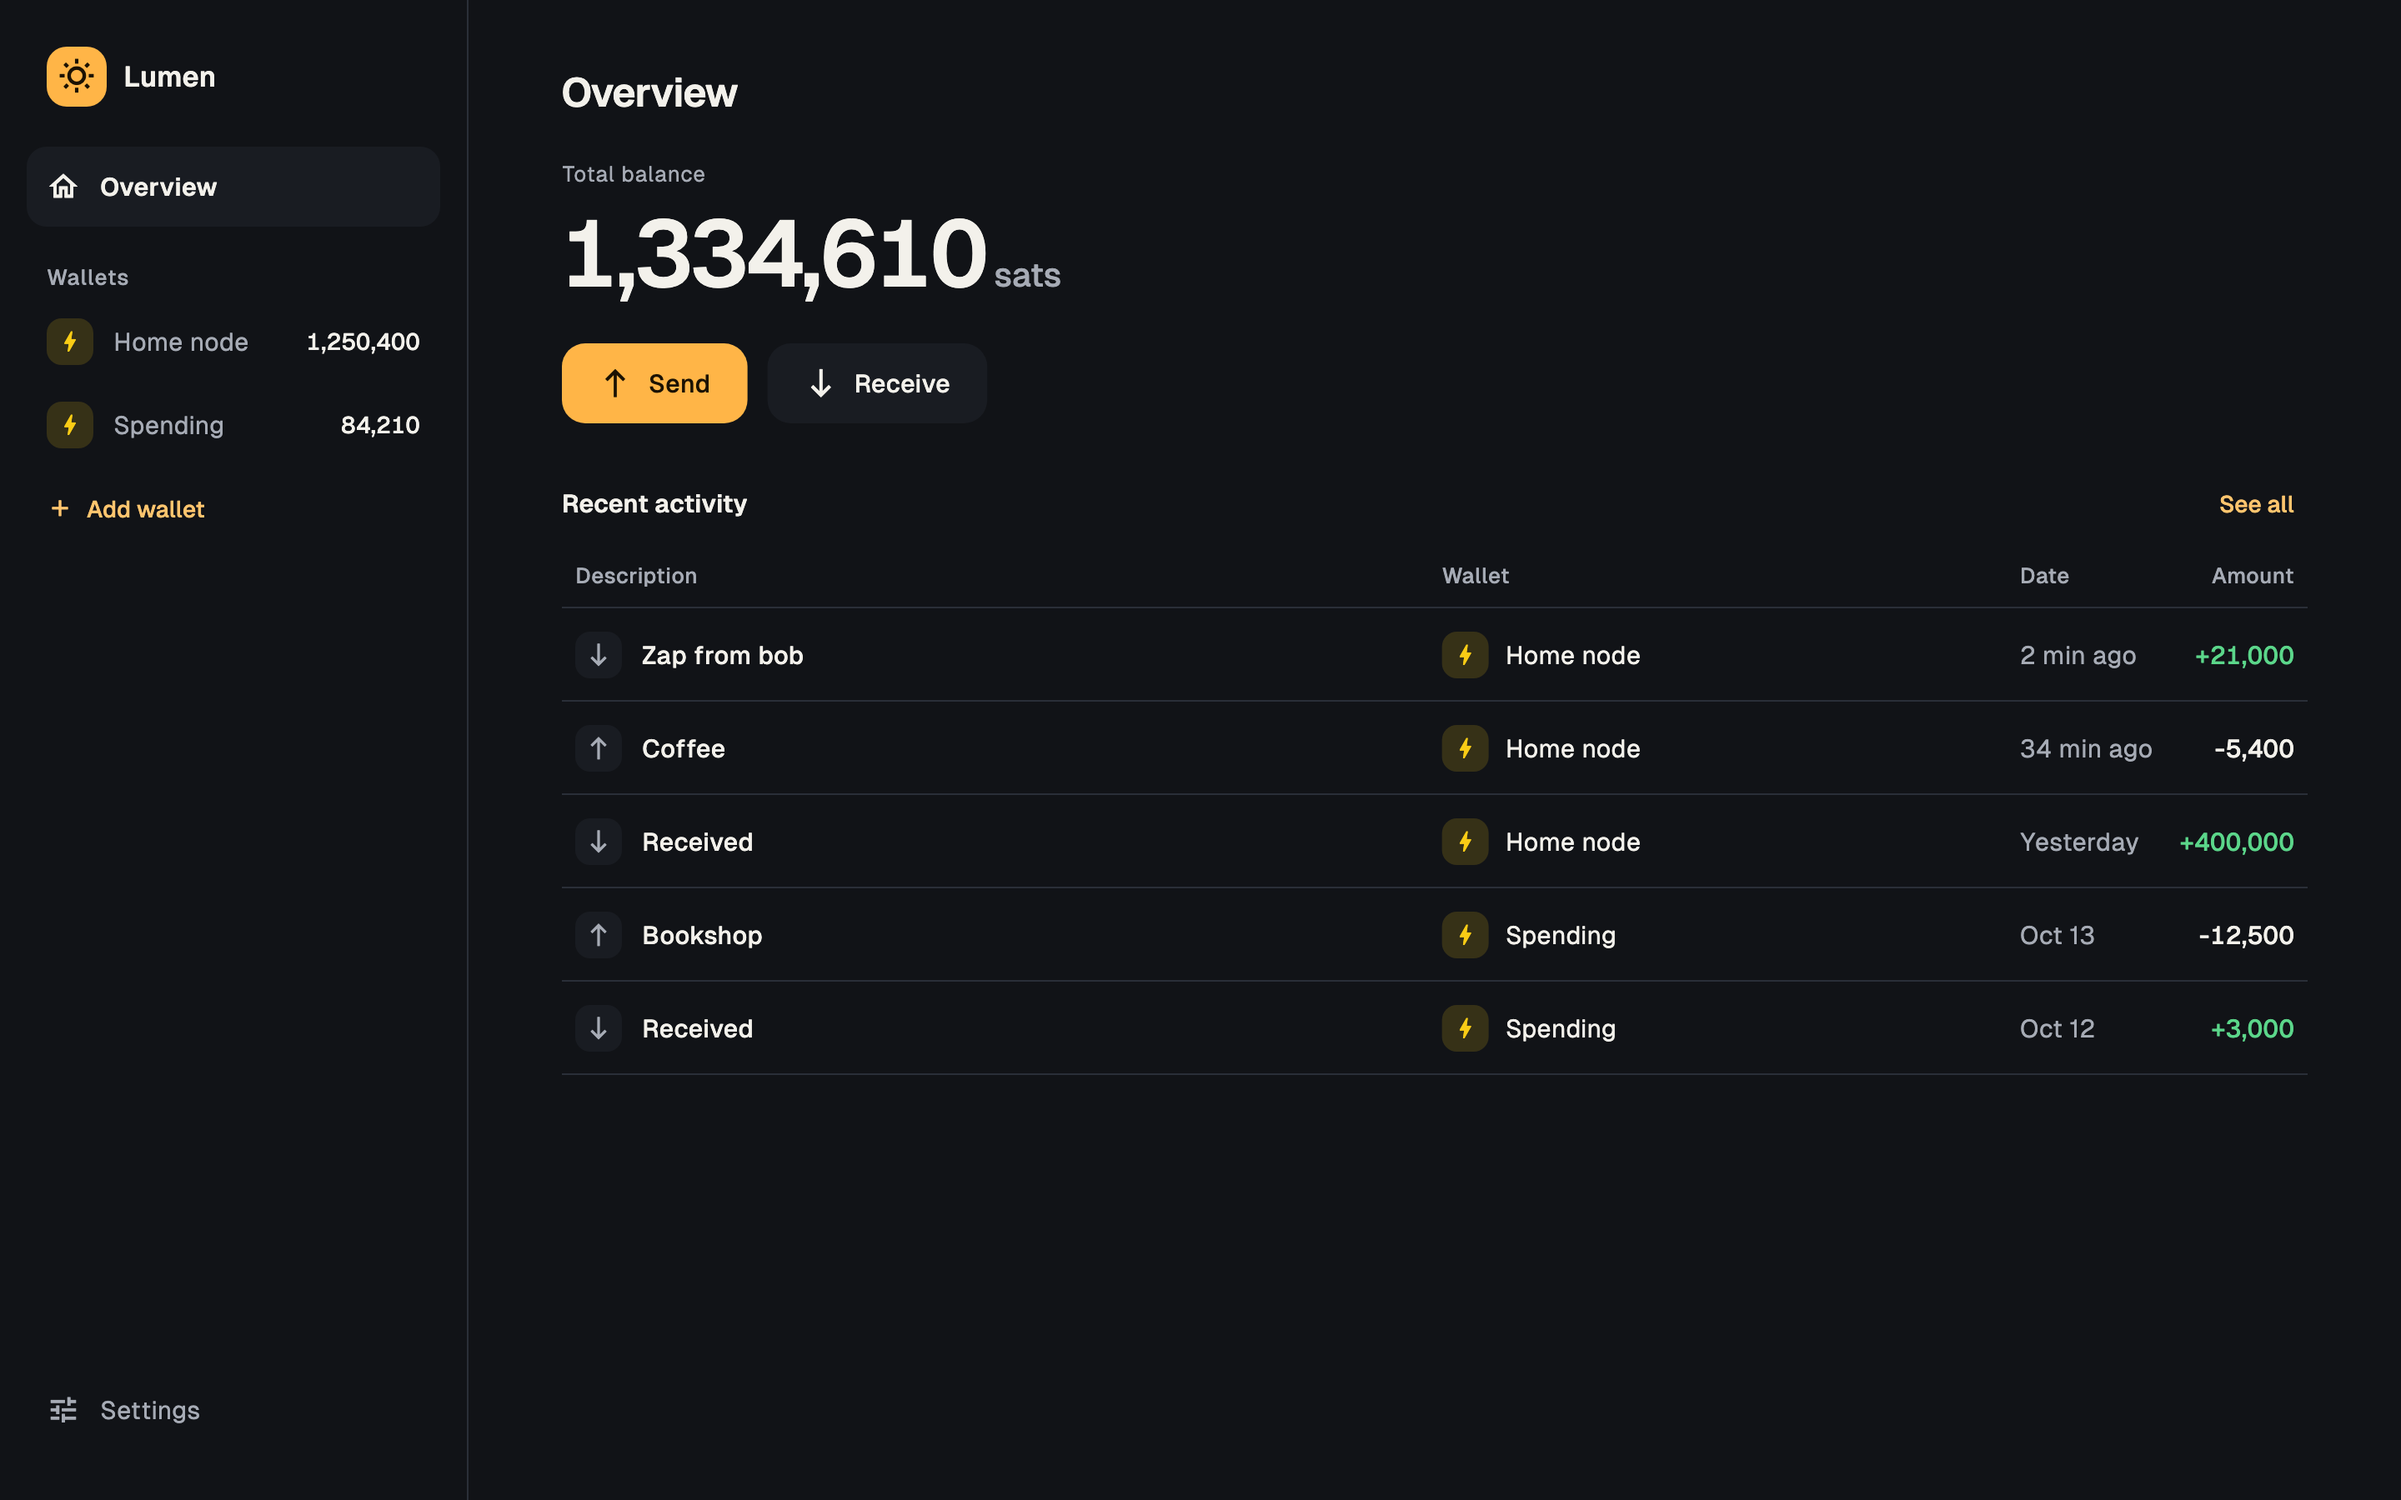
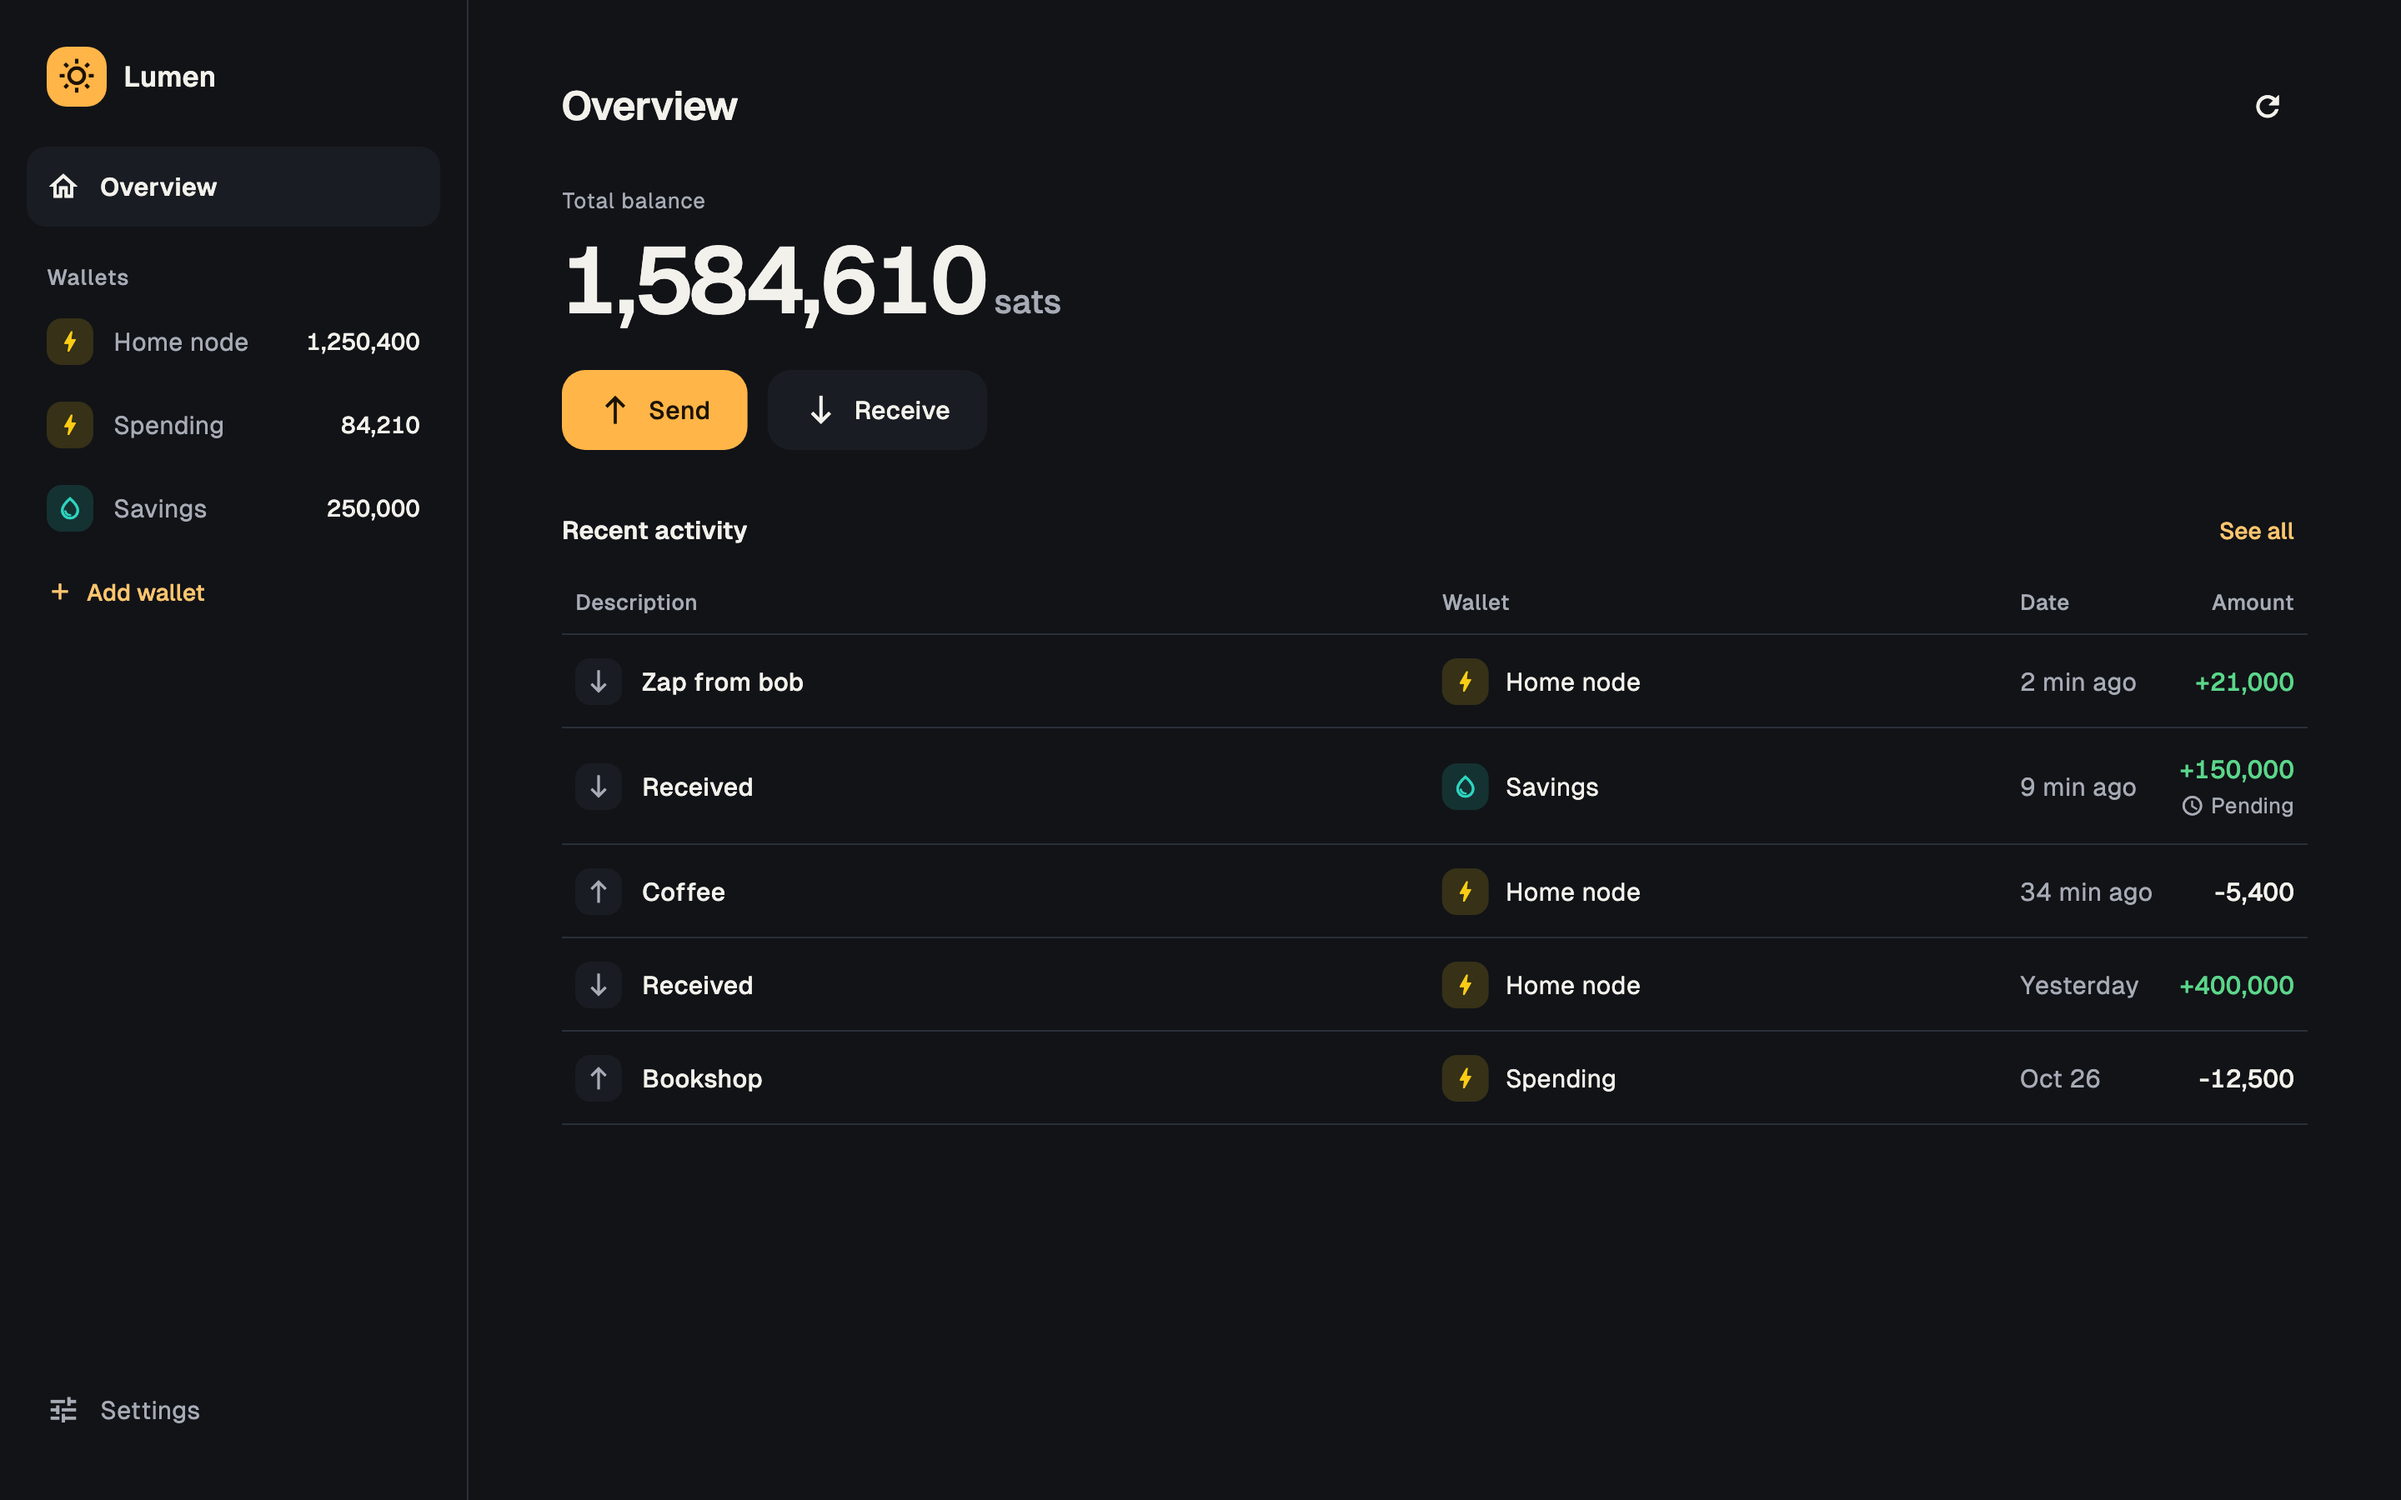
docs(liquid): show Liquid wallets in the README and on Zapstore
Describe creating, restoring, sending and the payment details of Liquid
wallets, and add a Liquid wallet with a pending payment to the demo data
the screenshots are rendered from.

diff --git a/tool/screenshots_test.dart b/tool/screenshots_test.dart
@@ -62,6 +62,23 @@ void main() {
         tx('books', sats: 12500, days: 2, description: 'Bookshop'),
         tx('refund', sats: 3000, incoming: true, days: 3),
       ],
+    FakeWallet.liquid('savings', 'Savings', balance: 250000)
+      ..transactions = [
+        tx(
[1 lines of base64/hex data omitted]
+          sats: 150000,
+          incoming: true,
+          minutesAgo: 9,
+          confirmations: 0,
+        ),
+        tx(
[1 lines of base64/hex data omitted]
+          sats: 100000,
+          days: 4,
+          feeSats: 33,
+          confirmations: 512,
+        ),
+      ],
   ];
 
   Future<void> shoot(WidgetTester tester, String name, Size size) async {

diff --git a/README.md b/README.md
@@ -1,16 +1,16 @@
 # Lumen
 
-Every way you hold bitcoin, in one place. Lumen connects Lightning wallets over Nostr Wallet Connect (NIP-47), shows their balances and activity together, and sends and receives Lightning payments with them, on Android, iOS, macOS, Windows, Linux and web.
+Every way you hold bitcoin, in one place. Lumen connects Lightning wallets over Nostr Wallet Connect (NIP-47), holds Liquid wallets of its own, shows their balances and activity together, and sends and receives with them, on Android, iOS, macOS, Windows, Linux and web.
 
 <picture>
   <source media="(prefers-color-scheme: dark)" srcset="docs/screenshots/desktop-dark.png">
-  <img src="docs/screenshots/desktop-light.png" alt="Lumen on desktop: a sidebar with two wallets, the total balance of 1,334,610 sats, Send and Receive buttons, and a table of recent activity across both wallets.">
+  <img src="docs/screenshots/desktop-light.png" alt="Lumen on desktop: a sidebar with two Lightning wallets and a Liquid one, the total balance of 1,584,610 sats, Send and Receive buttons, and a table of recent activity across the three wallets, where a Liquid payment is still pending.">
 </picture>
 
 <p align="center">
   <picture>
     <source media="(prefers-color-scheme: dark)" srcset="docs/screenshots/home-dark.png">
-    <img src="docs/screenshots/home-light.png" width="260" alt="Home on a phone: the total balance, Send, Receive and Scan, the list of wallets and recent activity.">
+    <img src="docs/screenshots/home-light.png" width="260" alt="Home on a phone: the total balance, Send, Receive and Scan, the list of wallets, Lightning and Liquid, and recent activity.">
   </picture>
   <picture>
     <source media="(prefers-color-scheme: dark)" srcset="docs/screenshots/receive-dark.png">
@@ -18,17 +18,18 @@ Every way you hold bitcoin, in one place. Lumen connects Lightning wallets over 
   </picture>
   <picture>
     <source media="(prefers-color-scheme: dark)" srcset="docs/screenshots/payment-dark.png">
-    <img src="docs/screenshots/payment-light.png" width="260" alt="A sent payment of 5,400 sats with its date, wallet, fee, payment hash, preimage and invoice.">
+    <img src="docs/screenshots/payment-light.png" width="260" alt="A sent payment of 5,400 sats with its date, wallet, network, fee, payment hash, preimage and invoice.">
   </picture>
 </p>
 
 ## Features
 
-- **Every wallet at once.** Connect several NWC wallets and see one total balance and one activity feed. Before saving a connection, Lumen shows what it can and cannot do.
-- **Send and receive.** Pay a Lightning invoice or address, create an invoice with a QR code, and get told the moment it is paid. On Android, scan QR codes with the camera.
-- **Payment details.** Each payment keeps its date, fee, payment hash, preimage and invoice, and can be shared as a receipt.
+- **Every wallet at once.** Connect several NWC wallets, add Liquid wallets, and see one total balance and one activity feed. Before saving a connection, Lumen shows what it can and cannot do.
+- **Liquid wallets.** Create one from a new 12-word recovery phrase, which Lumen asks you to type back before the wallet exists, or restore one from 12 or 24 words. The phrase never reaches the clipboard, Android and macOS keep it out of screenshots, and it can be shown again later. Lumen syncs through Waterfalls, falls back to Esplora, and lets you pick other servers in Settings.
+- **Send and receive.** Pay a Lightning invoice or address, or a Liquid address with its fee shown before you confirm, and send everything a Liquid wallet holds. Create an invoice or show a Liquid address with a QR code, and get told the moment it is paid. On Android, scan QR codes with the camera.
+- **Payment details.** Lightning payments keep their date, fee, payment hash, preimage and invoice. Liquid payments keep their confirmations, fee and transaction ID, with a liquid.network link that carries what the explorer needs to unblind the amounts. Each can be shared as a receipt.
 - **History that stays.** Every transaction Lumen sees is saved on the device, encrypted with AES-256-GCM, so it remains readable offline.
-- **App lock.** An optional passphrase, stretched with Argon2id, seals the wallets and the history. Cmd+L or Ctrl+L locks the app at once.
+- **App lock.** An optional passphrase, stretched with Argon2id, seals the wallets, recovery phrases included, and the history. Cmd+L or Ctrl+L locks the app at once.
 
 ## Layout
 

diff --git a/docs/liquid.md b/docs/liquid.md
@@ -326,6 +326,11 @@ How the Android release came out:
 - On macOS, `flutter build macos --release` puts a 63.7 MB `lumen_core` in the app, for x86_64 and arm64, with its symbols (`strip -x` takes 6.4 MB off). An ARM-only build, which Xcode 27 now allows (`flutter config --enable-macos-arm64-only`), would halve it. iOS was not measured.
 - Not tried yet: a tagged release on GitHub.
 
+How the README came out:
+
+- Its introduction and features, and the Zapstore description, now cover Liquid wallets. Only Android and macOS keep the phrase out of screenshots, so the README says so, and Zapstore, which only ships Android, says it plainly.
+- The screenshots' demo data has a Liquid wallet, "Savings", with a payment still in the mempool, which Home and the desktop table mark as pending. The payment screenshot gains the Network row from step 7.
+
 ## Later
 
 - **Lightning from Liquid.** Paying invoices and receiving over Lightning with Liquid funds needs a swap service. Boltz suspended its non-custodial swaps in August 2026, and Blockstream announced its own Blockstream Swaps, in beta. LWK has a `lwk_boltz` crate. Put swaps behind an interface and pick a provider once one is generally available.
